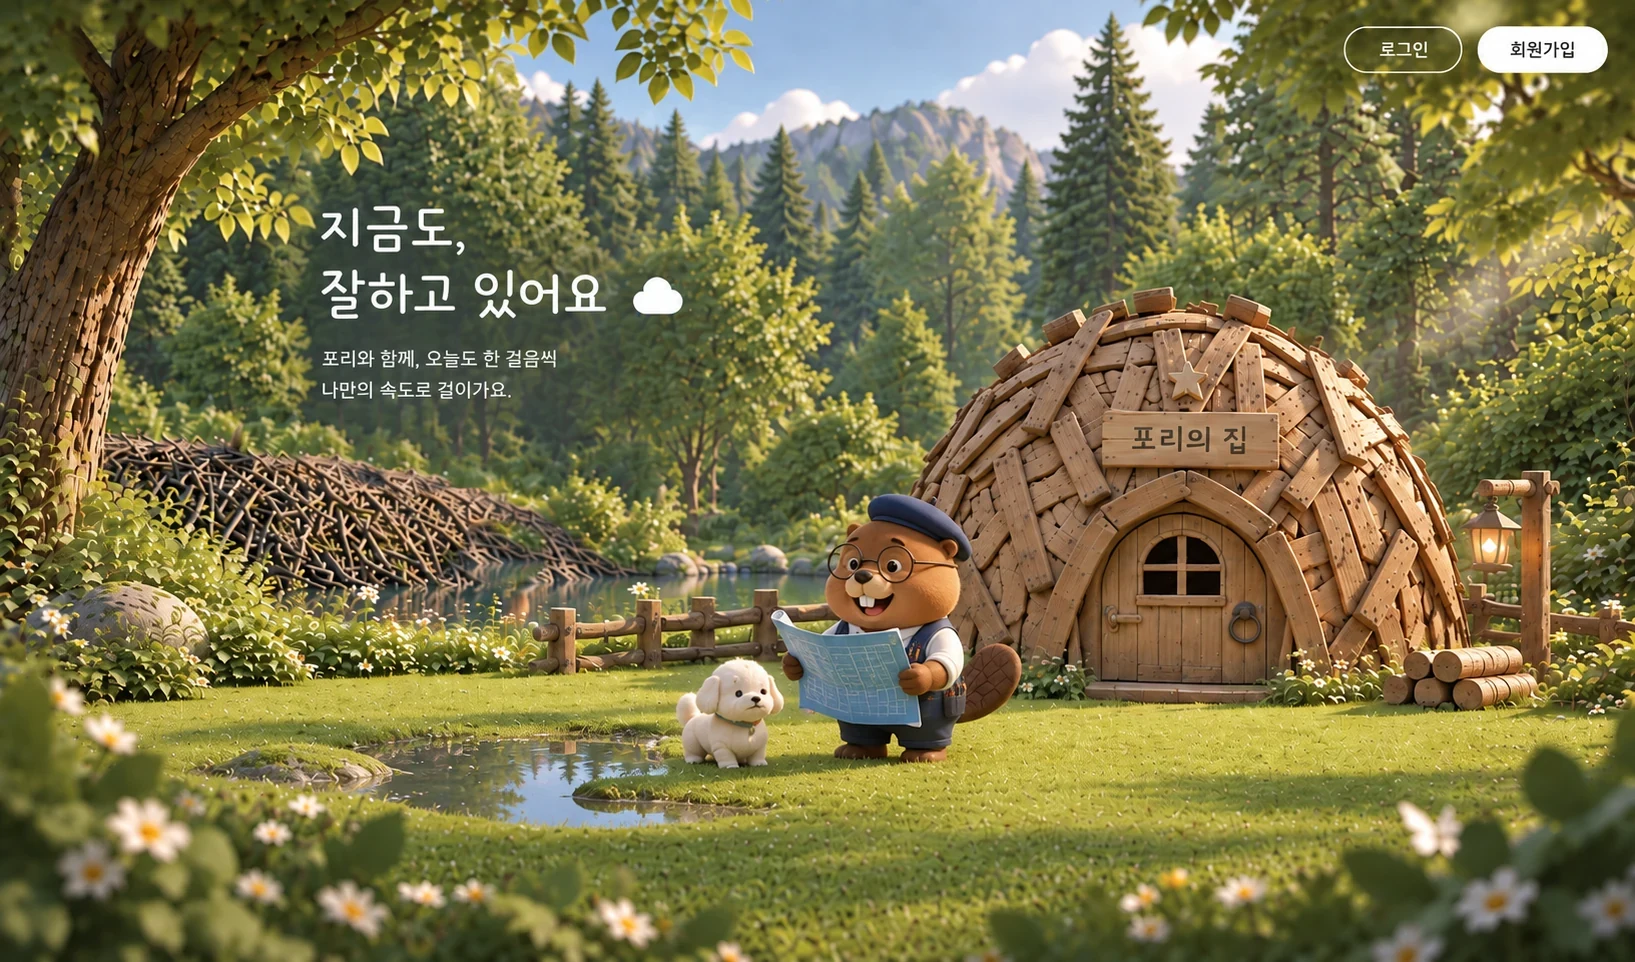
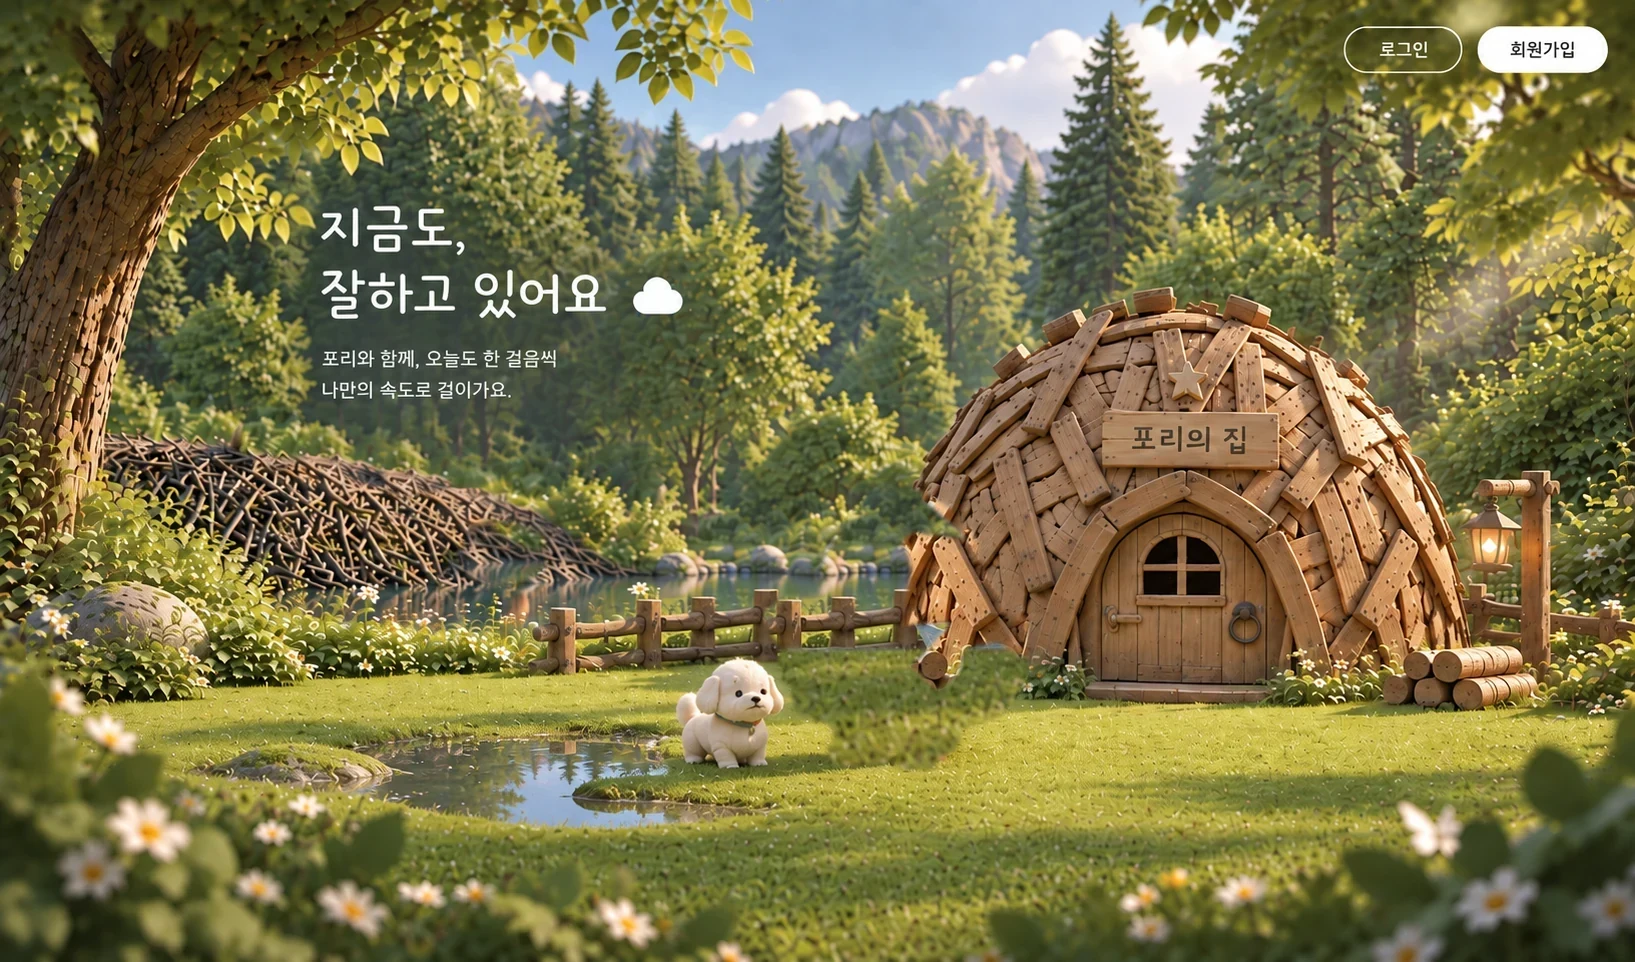
feat: 메인의 포리를 새 캐릭터 일러스트로 교체
디자이너가 보낸 벡터 포리(대지 1@2x.svg)로 바꾼다.
화풍 차이(평면 2D 카툰 vs 3D 렌더 배경)는 팀 결정으로 감수한다.

에셋
  원본 SVG 는 6MB · 패스 10,382개다. VTracer 로 비트맵을 자동 추적한
  것이라 벡터인데도 확대하면 가장자리가 뭉개진다. 그대로 쓰면 무겁기만 하고
  이득이 없어, 필요한 크기(245x317)로 래스터화하고 색을 96색으로 줄였다.
  6MB → 72KB.

배경
  새 포리를 놓으려면 3D 포리를 배경에서 지워야 한다. 그런데 포리 뒤가
  집 돔·잔디·울타리·물로 제각각이라 인페인트(Telea/NS)는 큰 얼룩을 남겼다.
  덮어 가리는 것도 안 된다 — 실루엣이 달라(꼬리 없음, 더 좁음) 99% 를 덮으려면
  화면 높이 47%, 지금의 1.7배가 되어야 한다.

  그래서 영역을 셋으로 나눠 각기 다른 곳에서 떠왔다.
    · 집 돔   — 돔 중심축 기준 좌우 반전. 문이 없는 쪽이라 문이 복제되지 않는다.
                (가로 복사로 했더니 문이 하나 더 생겼다)
    · 물·울타리 — 왼쪽에서. 가로 줄무늬라 결이 이어진다.
    · 잔디     — 190px 아래에서. 70px 아래로 떴더니 포리의 다리가 딸려왔다.
  남는 자국은 새 포리가 덮는 자리 안에 있다.

움직임
  포리도 이제 배경에서 지워졌으므로 '커지기만' 하는 제약이 사라졌다.
  비버처럼 숨·기울임·들썩임을 준다 (5.6초, 다른 것들과 어긋나게).

핫스팟
  실루엣이 바뀌었으므로 clip-path 를 다시 땄다(51점). 처음 33점으로 땄을 때는
  펼쳐 든 도면의 왼쪽이 클릭 범위에서 빠졌다.

Changed region(s): [[0.4679, 0.499, 0.655, 0.8108]]

diff --git a/public/css/scene.css b/public/css/scene.css
@@ -141,14 +141,16 @@ body.show-map .label{opacity:1;transform:translateY(0)}
              67.40% 70.58%, 76.57% 71.10%, 77.37% 70.37%, 77.43% 59.98%, 76.64%
              56.86%, 77.25% 55.72%, 77.98% 55.09%)}
 /* 포리 — 꼬리와 펼쳐 든 도면까지 */
-.h-pori  {clip-path:polygon(55.54% 51.46%, 53.39% 51.66%, 53.09% 52.60%, 53.27% 54.16%, 51.80% 54.89%, 51.87%
-             56.13%, 50.76% 58.21%, 50.40% 62.58%, 47.89% 62.99%, 47.16% 63.93%,
-             48.13% 67.26%, 48.01% 70.06%, 48.87% 70.89%, 48.93% 73.28%, 51.25%
-             74.84%, 51.62% 77.03%, 51.07% 77.96%, 51.38% 78.79%, 54.01% 78.69%,
-             54.62% 76.30%, 55.35% 77.75%, 55.11% 79.11%, 56.82% 79.11%, 57.06%
-             78.17%, 58.10% 77.23%, 58.41% 75.16%, 60.98% 73.60%, 62.32% 70.58%,
-             62.39% 64.66%, 61.28% 64.66%, 59.33% 58.00%, 59.39% 56.76%, 58.84%
-             55.09%, 57.43% 52.91%)}
+.h-pori  {clip-path:polygon(55.17% 46.47%, 53.39% 47.61%, 52.60% 49.17%, 52.48% 51.46%, 51.25% 52.60%, 51.19%
+             53.85%, 51.44% 55.09%, 50.46% 56.86%, 50.28% 59.04%, 50.52% 59.77%, 50.52% 62.37%,
+             51.38% 65.07%, 51.13% 65.49%, 50.46% 65.59%, 48.44% 64.97%, 48.01% 64.45%, 47.65%
+             63.10%, 47.16% 63.83%, 48.56% 67.15%, 48.56% 69.33%, 48.93% 70.69%, 48.81% 75.16%,
+             49.91% 76.09%, 52.17% 76.61%, 52.54% 77.23%, 52.29% 78.69%, 52.72% 79.11%, 55.90%
+             78.79%, 56.64% 79.31%, 58.65% 79.21%, 59.39% 78.69%, 59.45% 77.65%, 60.49% 76.20%,
+             60.73% 75.16%, 60.73% 73.60%, 60.37% 71.41%, 61.10% 69.75%, 61.22% 68.09%, 60.92%
+             66.53%, 59.88% 64.55%, 59.88% 64.14%, 61.10% 62.16%, 61.47% 59.04%, 61.35% 56.55%,
+             62.08% 54.89%, 62.08% 53.22%, 61.10% 50.21%, 59.63% 48.13%, 59.63% 47.09%, 58.96%
+             47.61%, 57.19% 46.57%)}
 
 /* 이름표 — 각 모양의 위쪽 가운데 */
 .t-login {left:86%;   top:9%}     .t-signup{left:94%;   top:9%}
@@ -157,7 +159,7 @@ body.show-map .label{opacity:1;transform:translateY(0)}
 .t-puddle{left:31.7%; top:71.1%}
 .t-house {left:71.9%; top:25.6%}
 .t-door  {left:72.7%; top:43.7%}
-.t-pori  {left:54.8%; top:46.3%}
+.t-pori  {left:54.6%; top:41.9%}
 
 /* ───────────────────────── 문 ─────────────────────────
    호버하면 밝아지는 대신 '실제로 열린다'.
@@ -232,12 +234,19 @@ body.show-map .label{opacity:1;transform:translateY(0)}
 .fauna .f-bvr2{animation:bvrIdle 5.3s ease-in-out infinite -1.7s}
 .fauna .f-bvr3{animation:bvrIdle 4.7s ease-in-out infinite -3.1s}
 
-/* 포리·강아지 — 커지기만 한다 */
+/* 강아지 — 배경에 원본이 그대로 있어 '커지는' 움직임만 준다 */
 @keyframes breathe{
   0%,100%{transform:scale(1)}
   50%     {transform:scale3d(1.006,1.024,1)}
 }
-.fauna .f-pori{animation:breathe 4.4s ease-in-out infinite}
+/* 포리는 배경에서 지워졌다. 뒤에 원본이 없으니 기울이고 들썩여도 된다. */
+@keyframes poriIdle{
+  0%,100%{transform:translateY(0) rotate(0deg) scaleY(1)}
+  26%    {transform:translateY(-1.1%) rotate(-.55deg) scaleY(1.022)}
+  52%    {transform:translateY(.35%)  rotate(.4deg)  scaleY(.99)}
+  76%    {transform:translateY(-.5%)  rotate(-.2deg) scaleY(1.012)}
+}
+.fauna .f-pori{animation:poriIdle 5.6s ease-in-out infinite}
 .fauna .f-dog {animation:breathe 3.2s ease-in-out infinite -1.1s}
 
 /* 랜턴 불빛 */

diff --git a/public/index.html b/public/index.html
@@ -72,8 +72,8 @@
       <div class="label t-pori">포리 · 내 목표</div>
 
       <!-- 살아 있는 것들. 배경 위에 얹혀 각자 다른 박자로 숨쉰다.
-           비버 셋은 배경에서 지워져 있어 자유롭게 움직일 수 있고,
-           포리·강아지는 제자리에 겹쳐 두어 커지기만 한다(원본을 늘 덮는다). -->
+           비버 셋과 포리는 배경에서 지워져 있어 자유롭게 움직일 수 있고,
+           강아지는 제자리에 겹쳐 두어 커지기만 한다(원본을 늘 덮는다). -->
       <div class="fauna" aria-hidden="true">
         <img class="f f-bvr1" src="./img/bvr1.png" alt=""
              style="left:14.74%;top:42.00%;width:4.04%;height:6.76%">
@@ -84,7 +84,7 @@
         <img class="f f-dog" src="./img/dog.png" alt=""
              style="left:41.22%;top:68.09%;width:6.85%;height:11.95%">
         <img class="f f-pori" src="./img/pori.png" alt=""
-             style="left:47.03%;top:51.14%;width:15.54%;height:28.27%">
+             style="left:47.16%;top:46.47%;width:14.98%;height:32.95%">
         <span class="lampglow"></span>
         <span class="leafshine"></span>
         <span class="ripple"></span>
